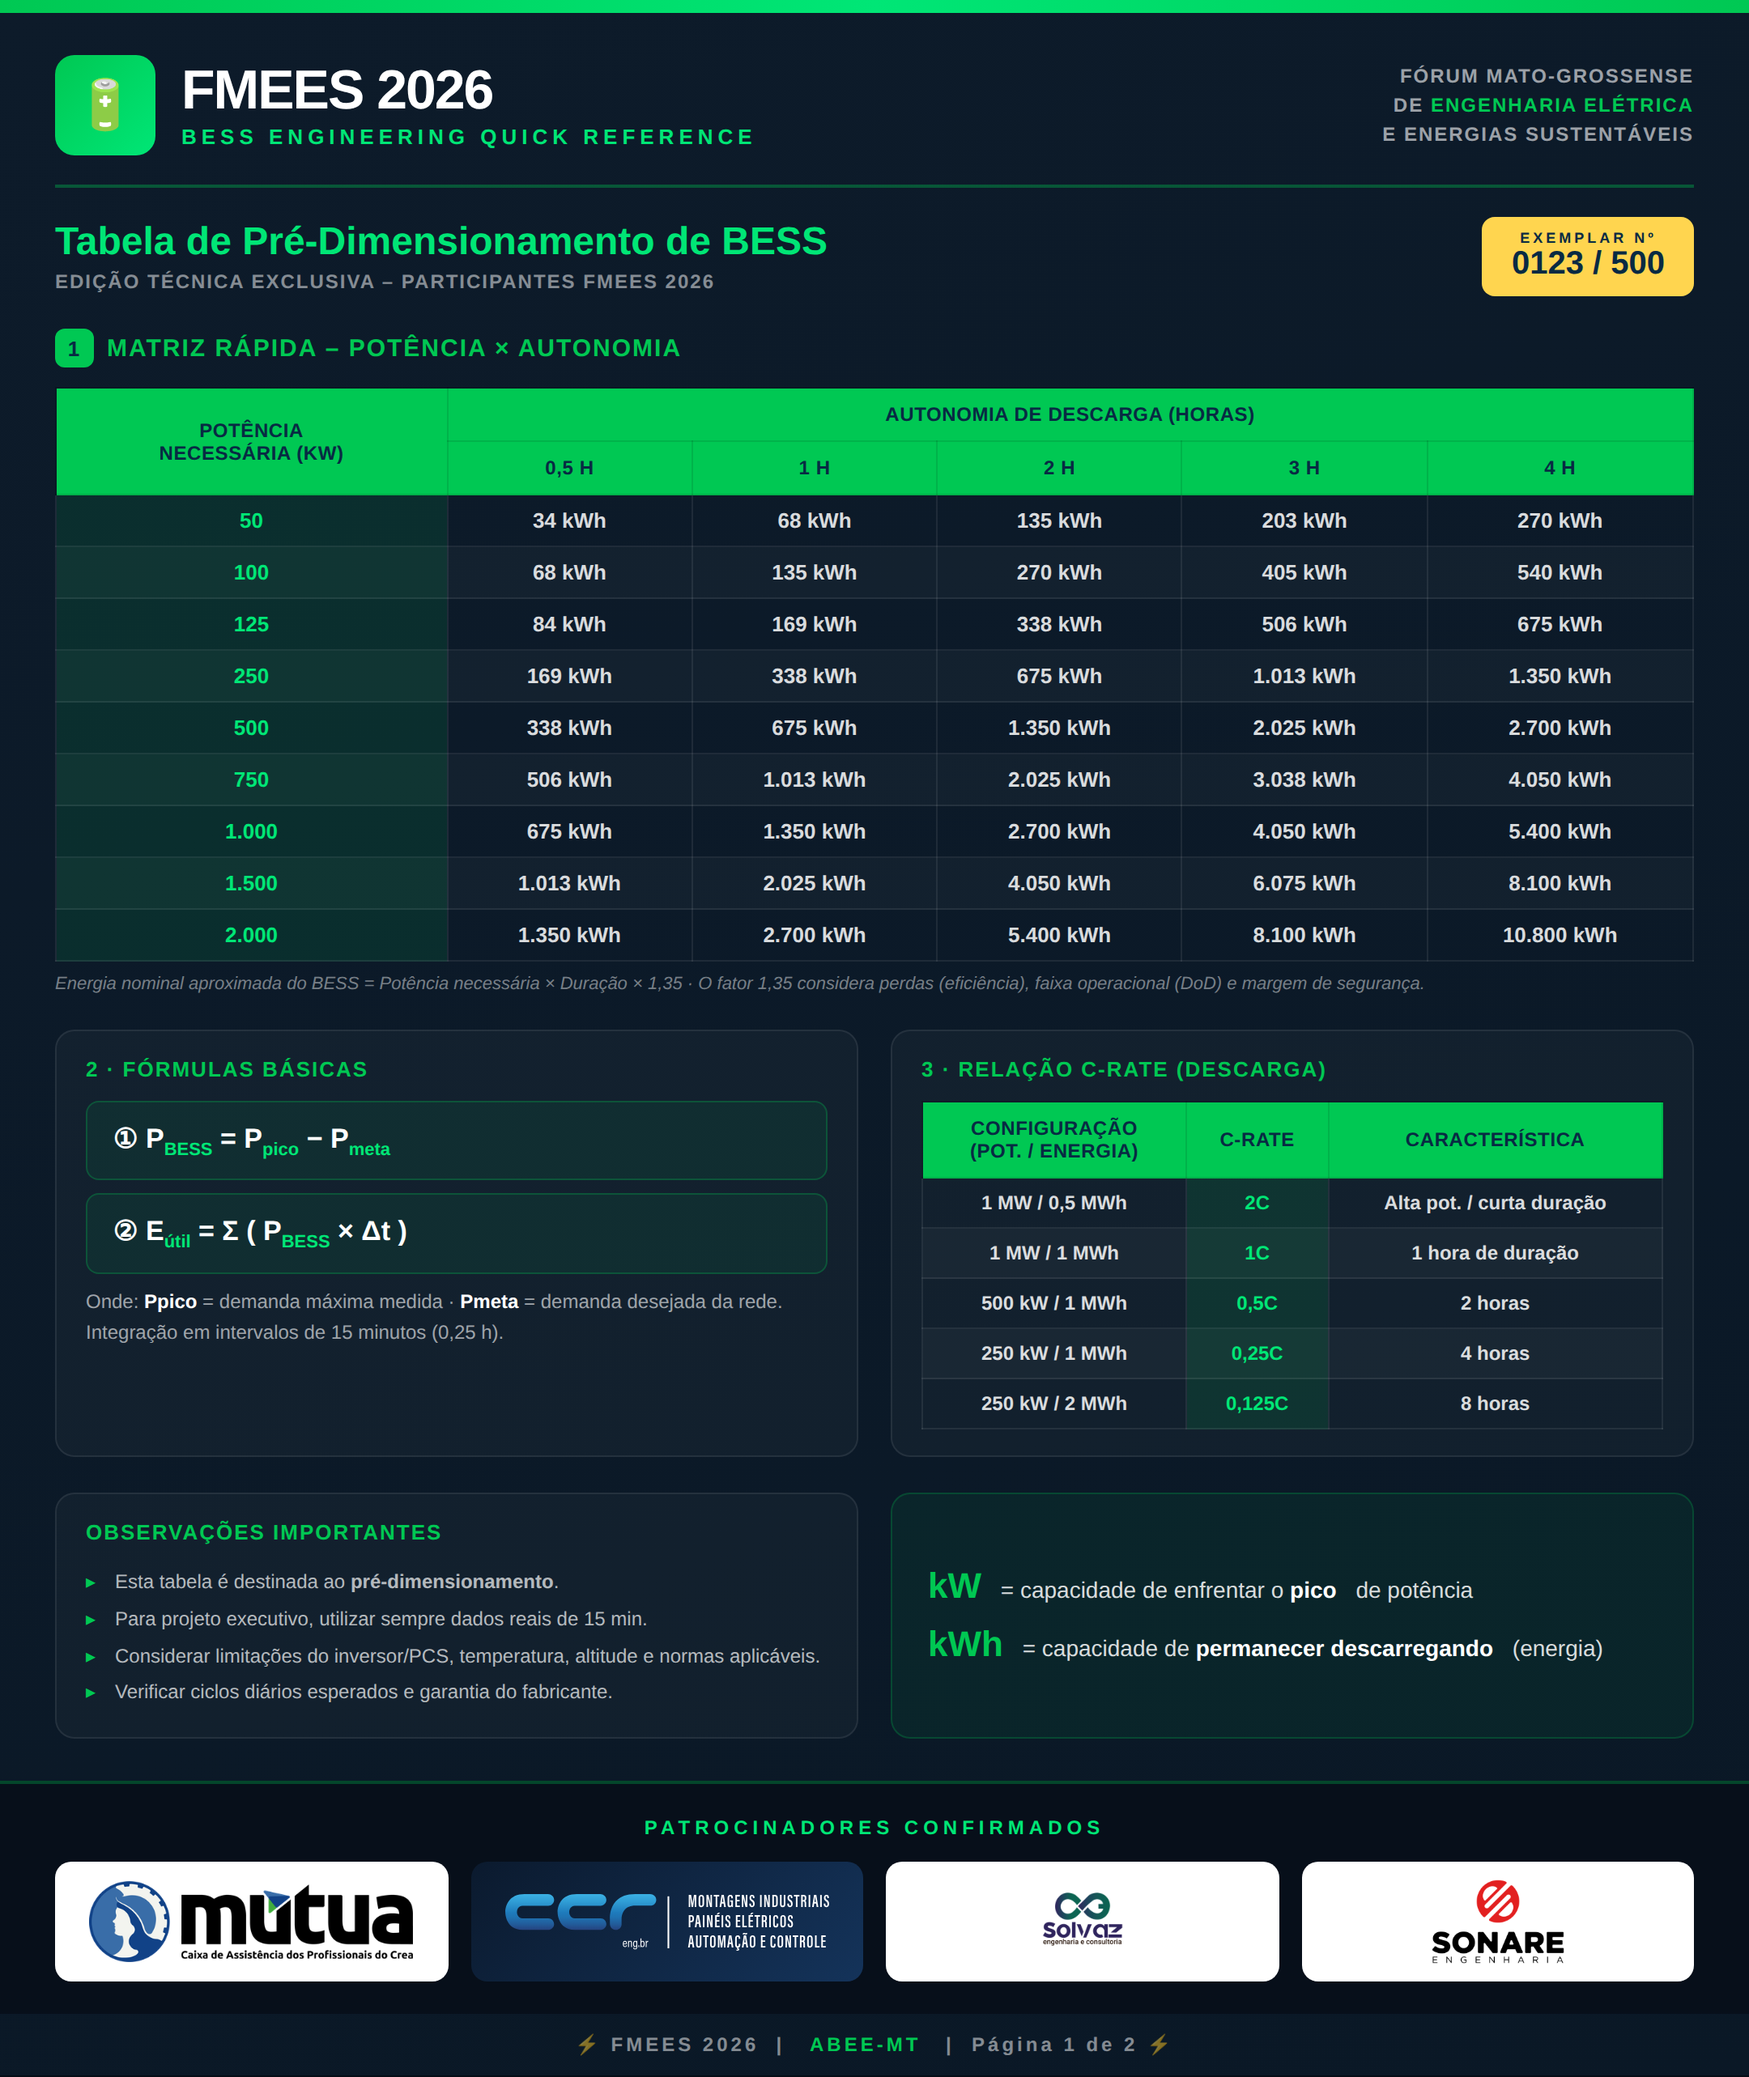
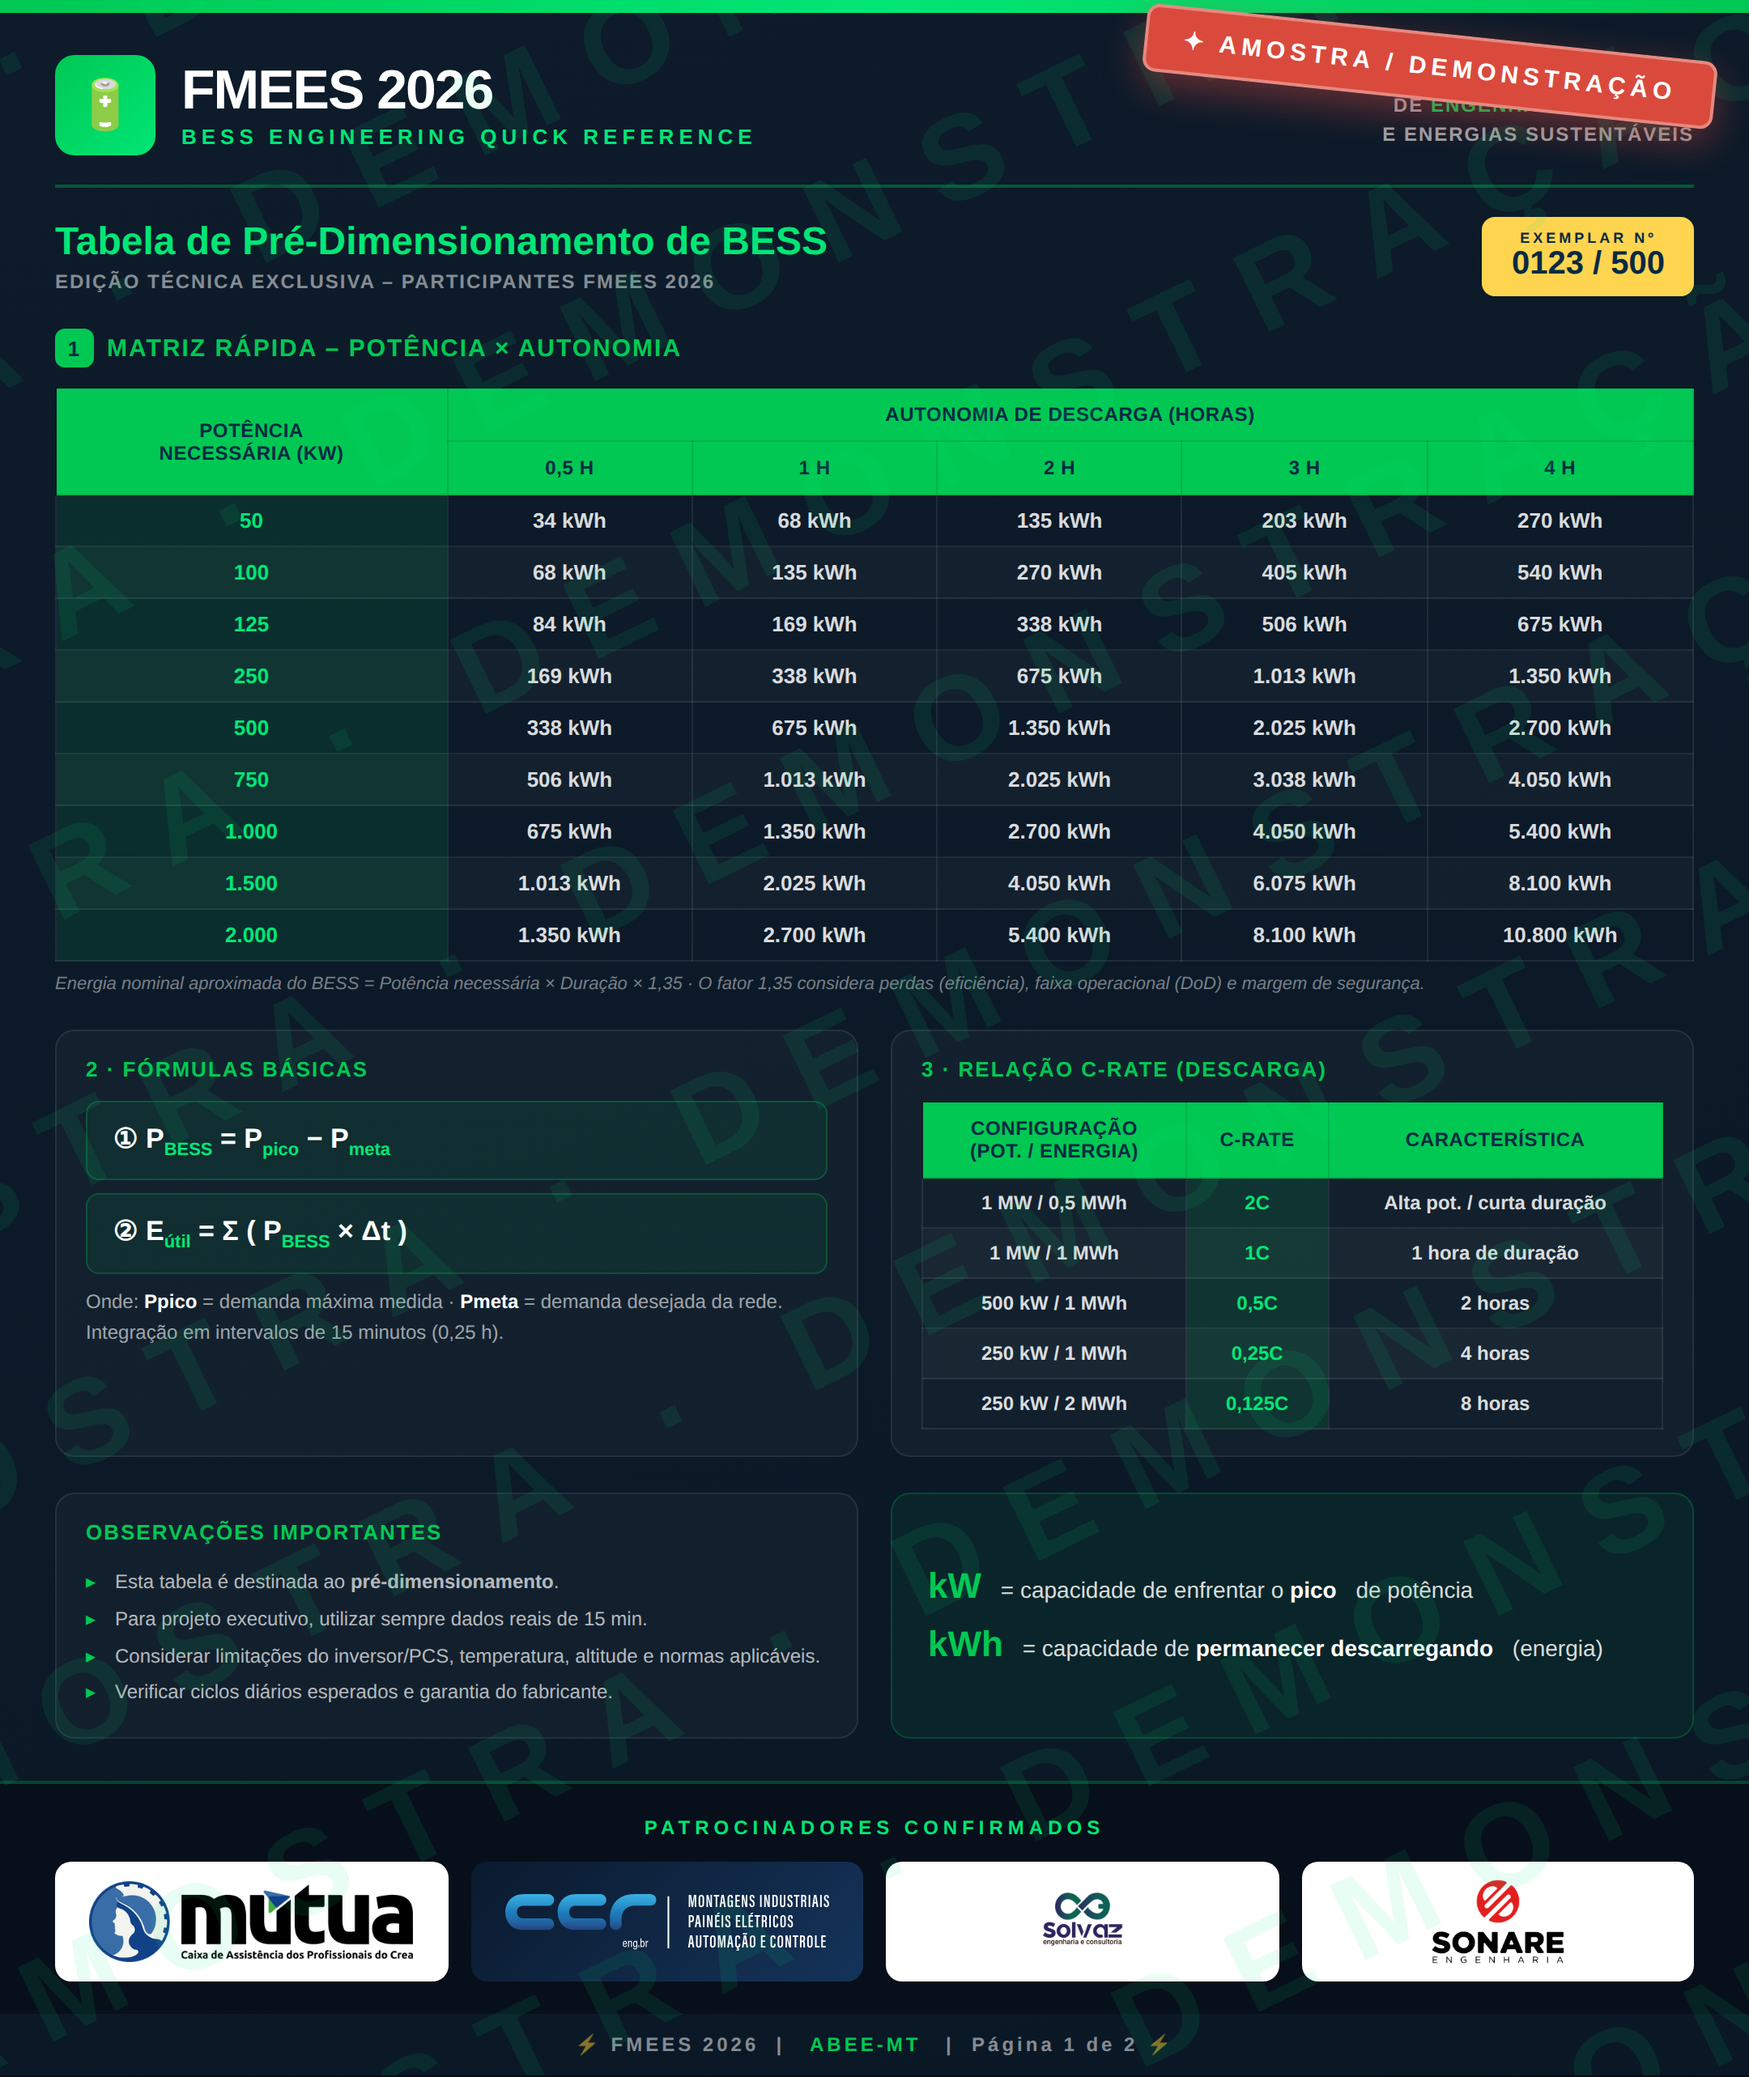
Add sample watermark and merged approval file for BESS card
Add an "AMOSTRA / DEMONSTRAÇÃO" diagonal watermark and corner seal to both pages
and produce a single merged image (card-completo.png) for approval.

Claude-Session: https://claude.ai/code/session_01L6FrgRcPLt2sf6cMtbefz6

Changed region(s): [[0.6514, 0.0, 0.9926, 0.0935]]

diff --git a/forum-bess/social/card-bess.html b/forum-bess/social/card-bess.html
@@ -77,11 +77,15 @@ tbody tr:nth-child(even){background:rgba(255,255,255,.03)}
 .sp .chip img{max-height:52px;max-width:90%;object-fit:contain}
 .ftr{display:flex;justify-content:center;align-items:center;gap:10px;padding:12px;font-size:12px;font-weight:800;letter-spacing:2px;color:rgba(255,255,255,.5)}
 .ftr span{color:var(--g)}
+
+.wm{position:absolute;inset:-25%;z-index:60;pointer-events:none;transform:rotate(-26deg);display:flex;flex-direction:column;gap:70px;justify-content:center;overflow:hidden}
+.wm span{white-space:nowrap;font-size:74px;font-weight:900;letter-spacing:24px;color:rgba(0,230,118,.09);text-transform:uppercase;text-align:center}
+.seal{position:absolute;top:20px;right:20px;z-index:70;background:#d94a3d;color:#fff;font-size:15px;font-weight:900;letter-spacing:3px;text-transform:uppercase;padding:10px 22px;border-radius:8px;transform:rotate(6deg);box-shadow:0 8px 24px rgba(217,74,61,.45);border:2px solid rgba(255,255,255,.35)}
 </style></head><body>
 
 <!-- ============ PÁGINA 1 ============ -->
 <div class="page" id="p1">
-  <div class="tbar"></div>
+  <div class="tbar"></div><div class="seal">✦ Amostra / Demonstração</div><div class="wm"><span>AMOSTRA · DEMONSTRAÇÃO · AMOSTRA · DEMONSTRAÇÃO · AMOSTRA</span><span>AMOSTRA · DEMONSTRAÇÃO · AMOSTRA · DEMONSTRAÇÃO · AMOSTRA</span><span>AMOSTRA · DEMONSTRAÇÃO · AMOSTRA · DEMONSTRAÇÃO · AMOSTRA</span><span>AMOSTRA · DEMONSTRAÇÃO · AMOSTRA · DEMONSTRAÇÃO · AMOSTRA</span><span>AMOSTRA · DEMONSTRAÇÃO · AMOSTRA · DEMONSTRAÇÃO · AMOSTRA</span><span>AMOSTRA · DEMONSTRAÇÃO · AMOSTRA · DEMONSTRAÇÃO · AMOSTRA</span><span>AMOSTRA · DEMONSTRAÇÃO · AMOSTRA · DEMONSTRAÇÃO · AMOSTRA</span><span>AMOSTRA · DEMONSTRAÇÃO · AMOSTRA · DEMONSTRAÇÃO · AMOSTRA</span><span>AMOSTRA · DEMONSTRAÇÃO · AMOSTRA · DEMONSTRAÇÃO · AMOSTRA</span><span>AMOSTRA · DEMONSTRAÇÃO · AMOSTRA · DEMONSTRAÇÃO · AMOSTRA</span><span>AMOSTRA · DEMONSTRAÇÃO · AMOSTRA · DEMONSTRAÇÃO · AMOSTRA</span></div>
   <div class="hd">
     <div class="lft">
       <div class="ic">🔋</div>
@@ -166,7 +170,7 @@ tbody tr:nth-child(even){background:rgba(255,255,255,.03)}
 
 <!-- ============ PÁGINA 2 ============ -->
 <div class="page" id="p2">
-  <div class="tbar"></div>
+  <div class="tbar"></div><div class="seal">✦ Amostra / Demonstração</div><div class="wm"><span>AMOSTRA · DEMONSTRAÇÃO · AMOSTRA · DEMONSTRAÇÃO · AMOSTRA</span><span>AMOSTRA · DEMONSTRAÇÃO · AMOSTRA · DEMONSTRAÇÃO · AMOSTRA</span><span>AMOSTRA · DEMONSTRAÇÃO · AMOSTRA · DEMONSTRAÇÃO · AMOSTRA</span><span>AMOSTRA · DEMONSTRAÇÃO · AMOSTRA · DEMONSTRAÇÃO · AMOSTRA</span><span>AMOSTRA · DEMONSTRAÇÃO · AMOSTRA · DEMONSTRAÇÃO · AMOSTRA</span><span>AMOSTRA · DEMONSTRAÇÃO · AMOSTRA · DEMONSTRAÇÃO · AMOSTRA</span><span>AMOSTRA · DEMONSTRAÇÃO · AMOSTRA · DEMONSTRAÇÃO · AMOSTRA</span><span>AMOSTRA · DEMONSTRAÇÃO · AMOSTRA · DEMONSTRAÇÃO · AMOSTRA</span><span>AMOSTRA · DEMONSTRAÇÃO · AMOSTRA · DEMONSTRAÇÃO · AMOSTRA</span><span>AMOSTRA · DEMONSTRAÇÃO · AMOSTRA · DEMONSTRAÇÃO · AMOSTRA</span><span>AMOSTRA · DEMONSTRAÇÃO · AMOSTRA · DEMONSTRAÇÃO · AMOSTRA</span></div>
   <div class="st"><span class="num">4</span> Aplicações Típicas e Duração Inicial para Estudo</div>
   <table style="font-size:12px">
     <thead><tr><th style="text-align:left">Aplicação</th><th style="text-align:left">Objetivo principal</th><th>Duração inicial<br>para estudo</th></tr></thead>
